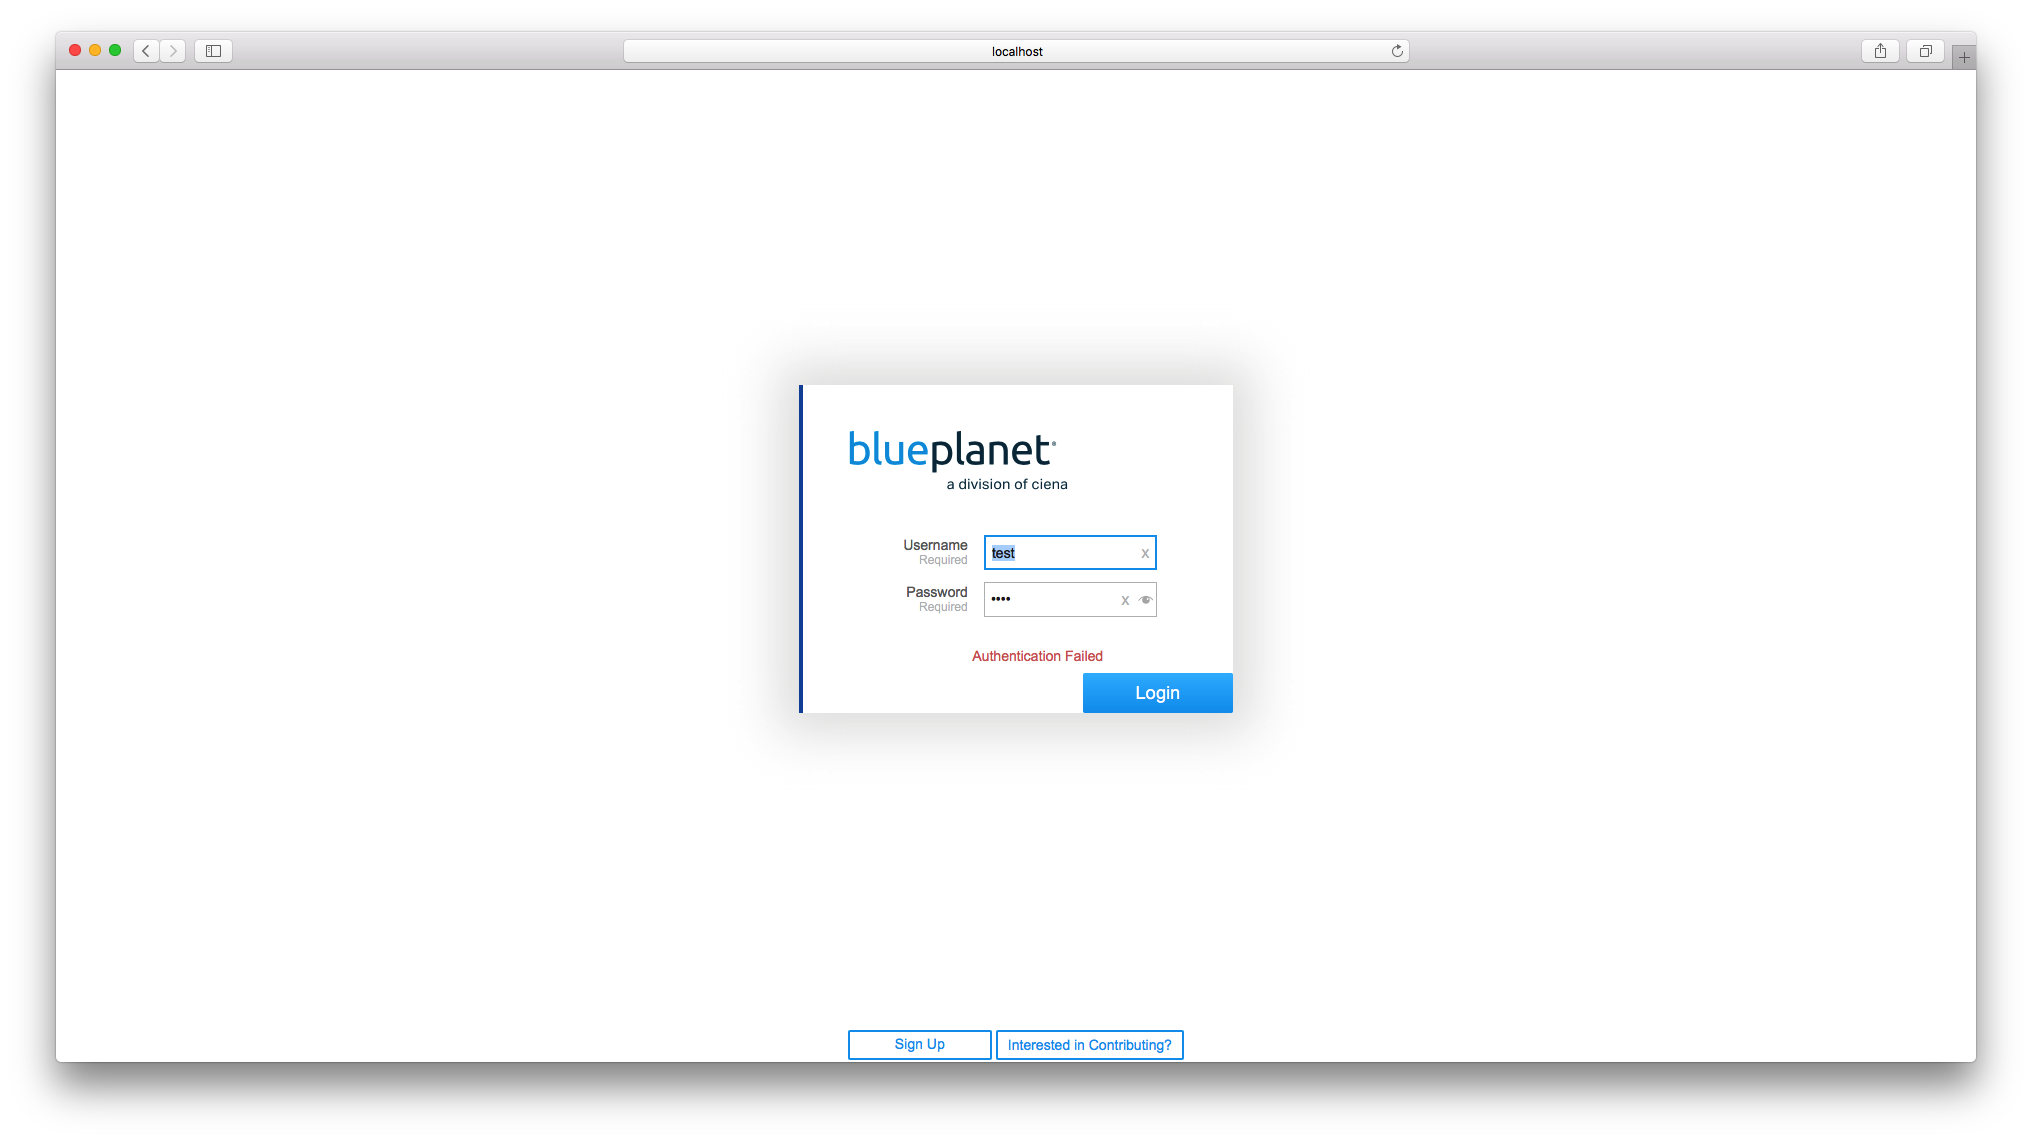
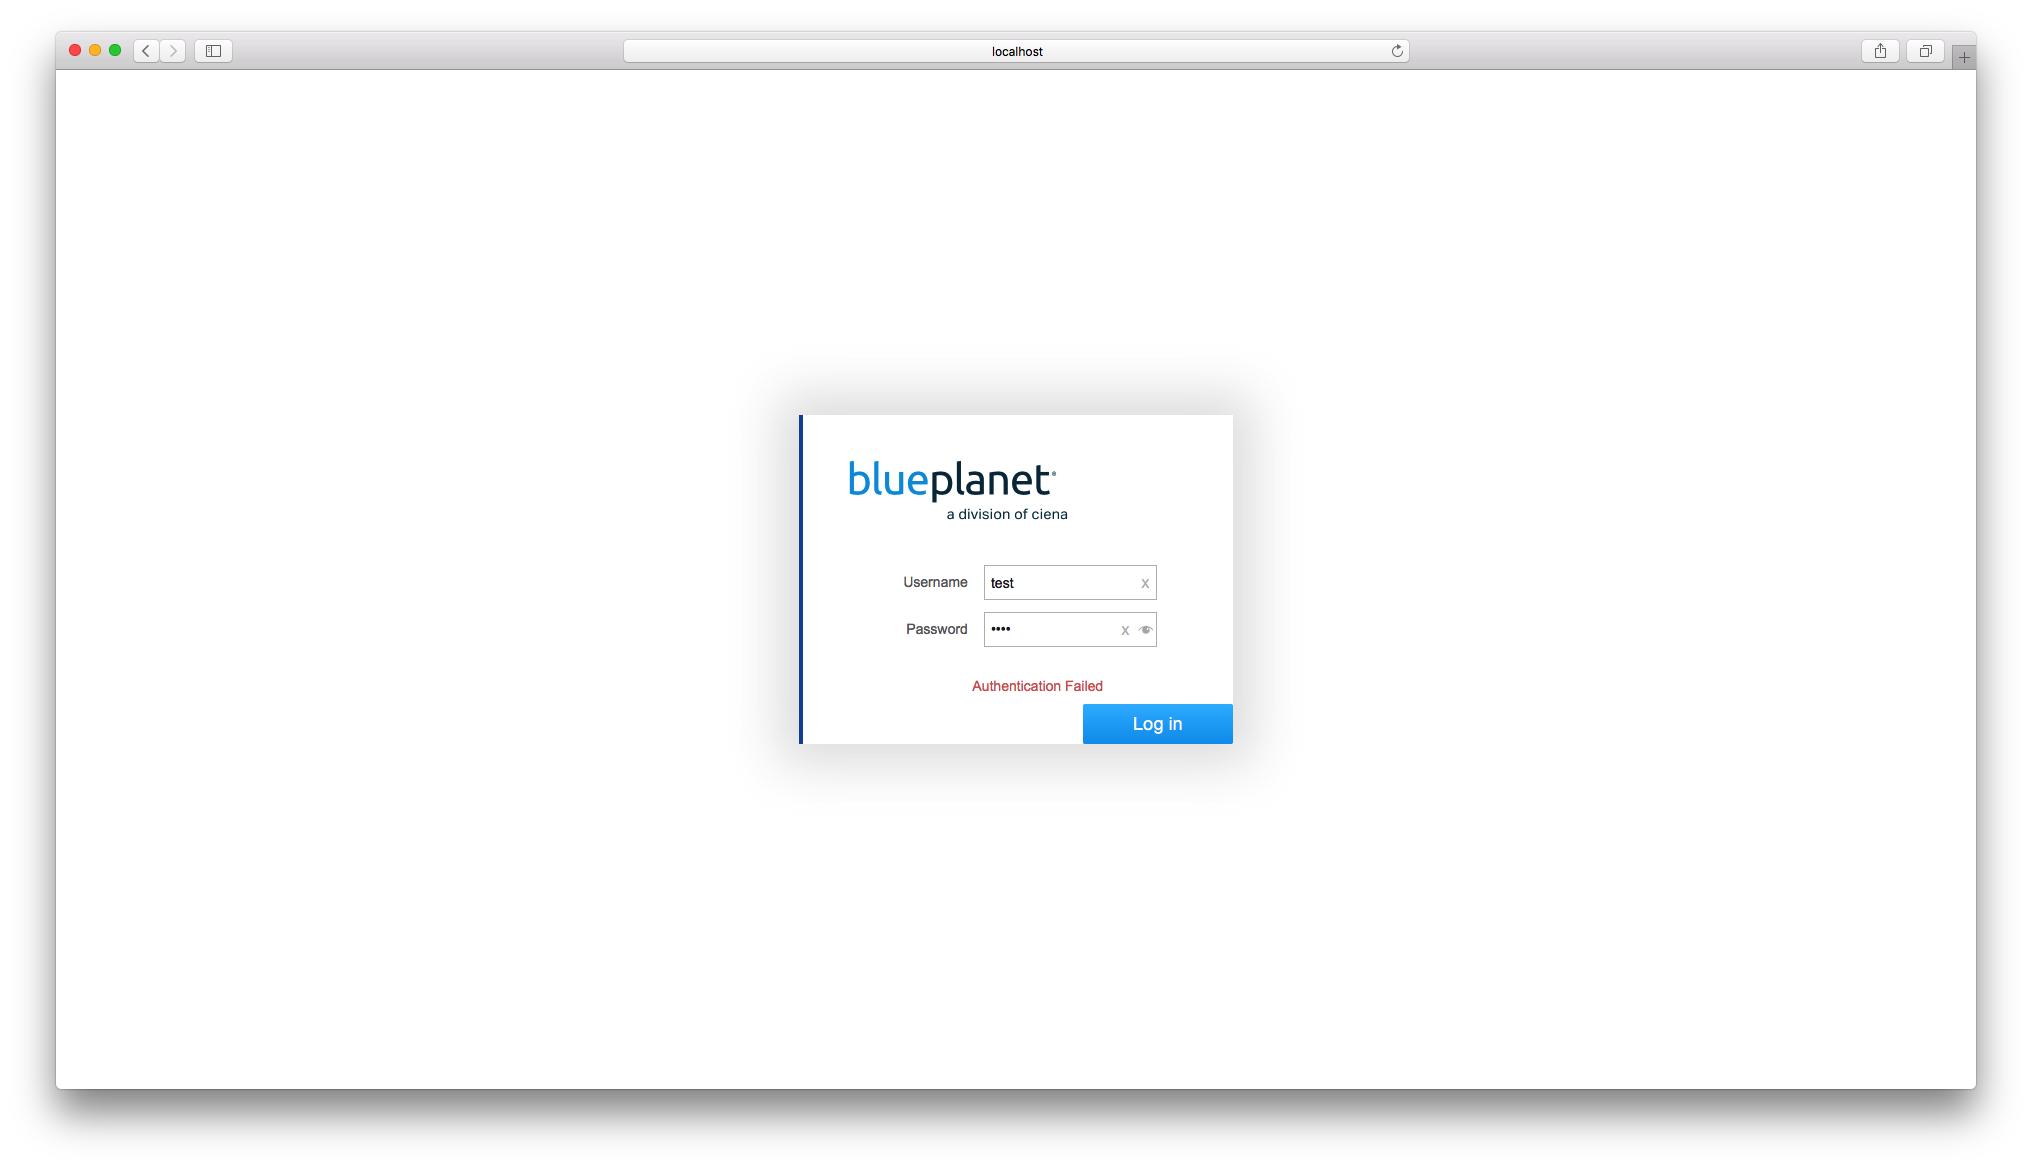
Updated script to work with server, updated css

diff --git a/app/controllers/login.js b/app/controllers/login.js
@@ -11,7 +11,6 @@ export default Ember.Controller.extend({
         type: 'string'
       }
     },
-    required: ['username', 'password'],
     type: 'object'
   },
   loginView: {

diff --git a/app/styles/app.scss b/app/styles/app.scss
@@ -30,11 +30,6 @@
     align-items: center;
 }
 
-.login-footer {
-    @extend .footer;
-    justify-content: center;
-}
-
 .bar {
     display: flex;
     align-items: center;
